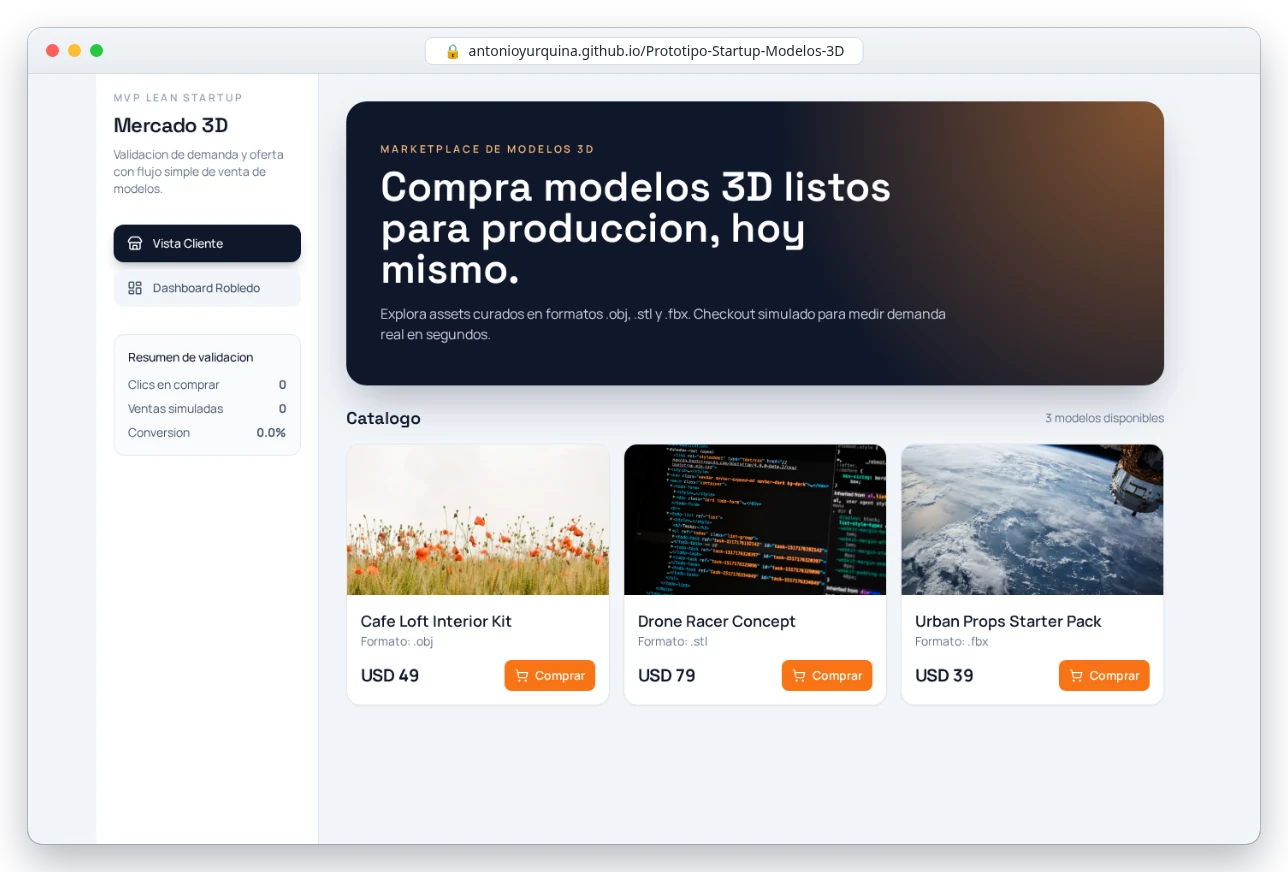
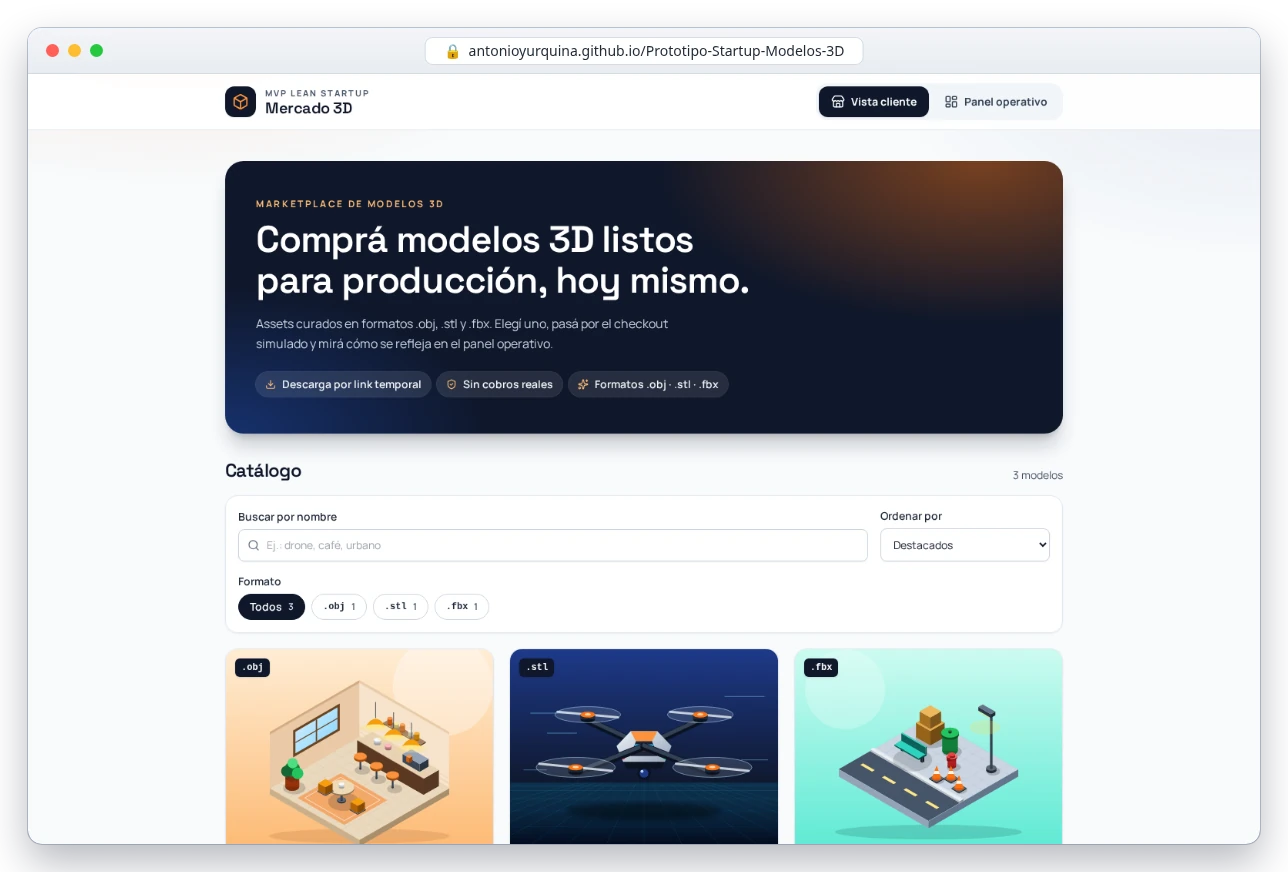
Actualiza la tarjeta de Mercado 3D con el nuevo diseño

diff --git a/README.md b/README.md
@@ -69,9 +69,9 @@ encaro la interfaz, el estado y la organización del código.
   </tr>
   <tr>
     <td width="50%" valign="top">
-      <a href="https://antonioyurquina.github.io/Prototipo-Startup-Modelos-3D/"><img src="assets/modelos3d.webp" alt="Captura de Mercado 3D: catálogo de modelos 3D con checkout simulado"></a>
+      <a href="https://antonioyurquina.github.io/Prototipo-Startup-Modelos-3D/"><img src="assets/modelos3d.webp" alt="Captura de Mercado 3D: portada y catálogo de modelos 3D con búsqueda y filtros por formato"></a>
       <h3>Mercado 3D</h3>
-      <p>MVP de marketplace de modelos 3D: catálogo, checkout simulado y panel operativo con métricas de conversión.</p>
+      <p>MVP de marketplace de modelos 3D: catálogo con búsqueda y filtros, checkout simulado en tres pasos y panel operativo con embudo de conversión y generador de links de descarga.</p>
       <p><code>React</code> <code>Vite</code> <code>Tailwind</code></p>
       <p><a href="https://antonioyurquina.github.io/Prototipo-Startup-Modelos-3D/">Demo</a> · <a href="https://github.com/AntonioYurquina/Prototipo-Startup-Modelos-3D">Código</a></p>
     </td>
